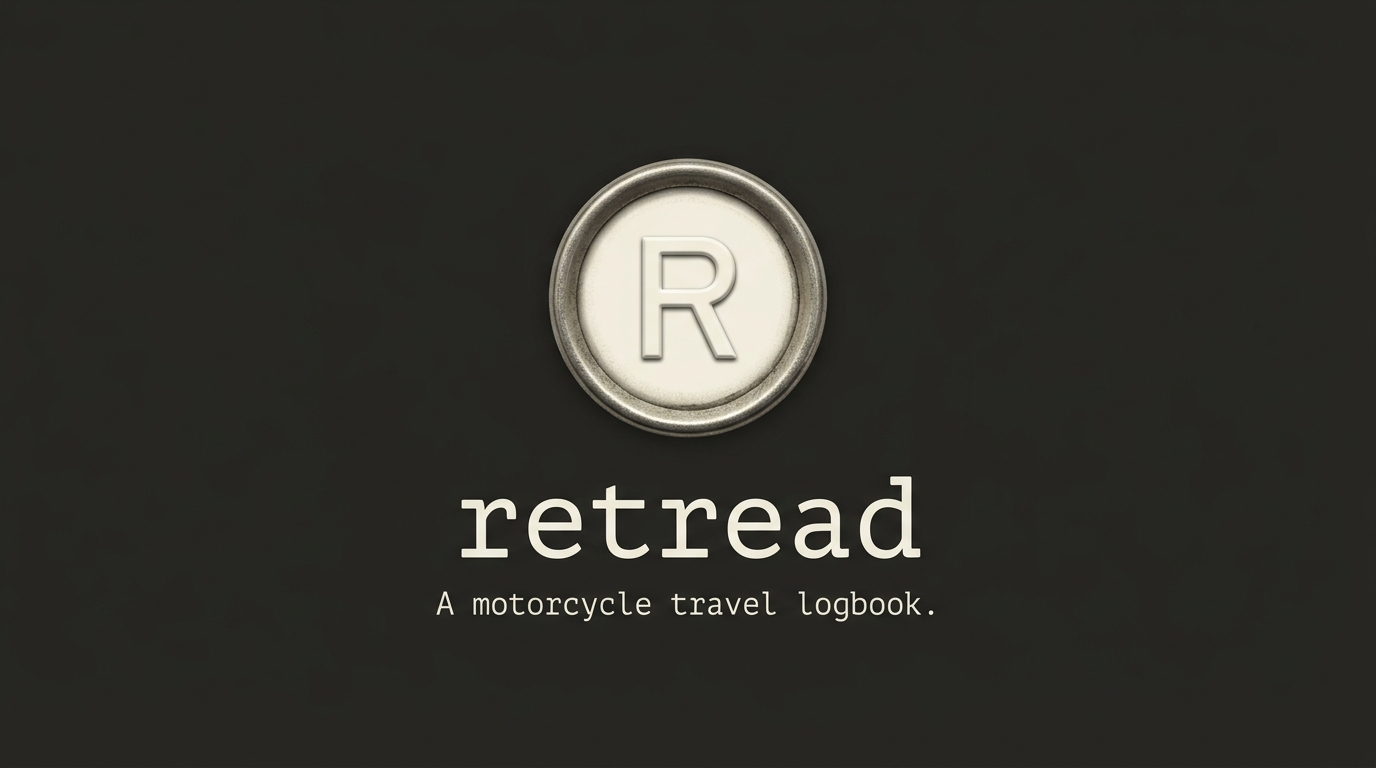
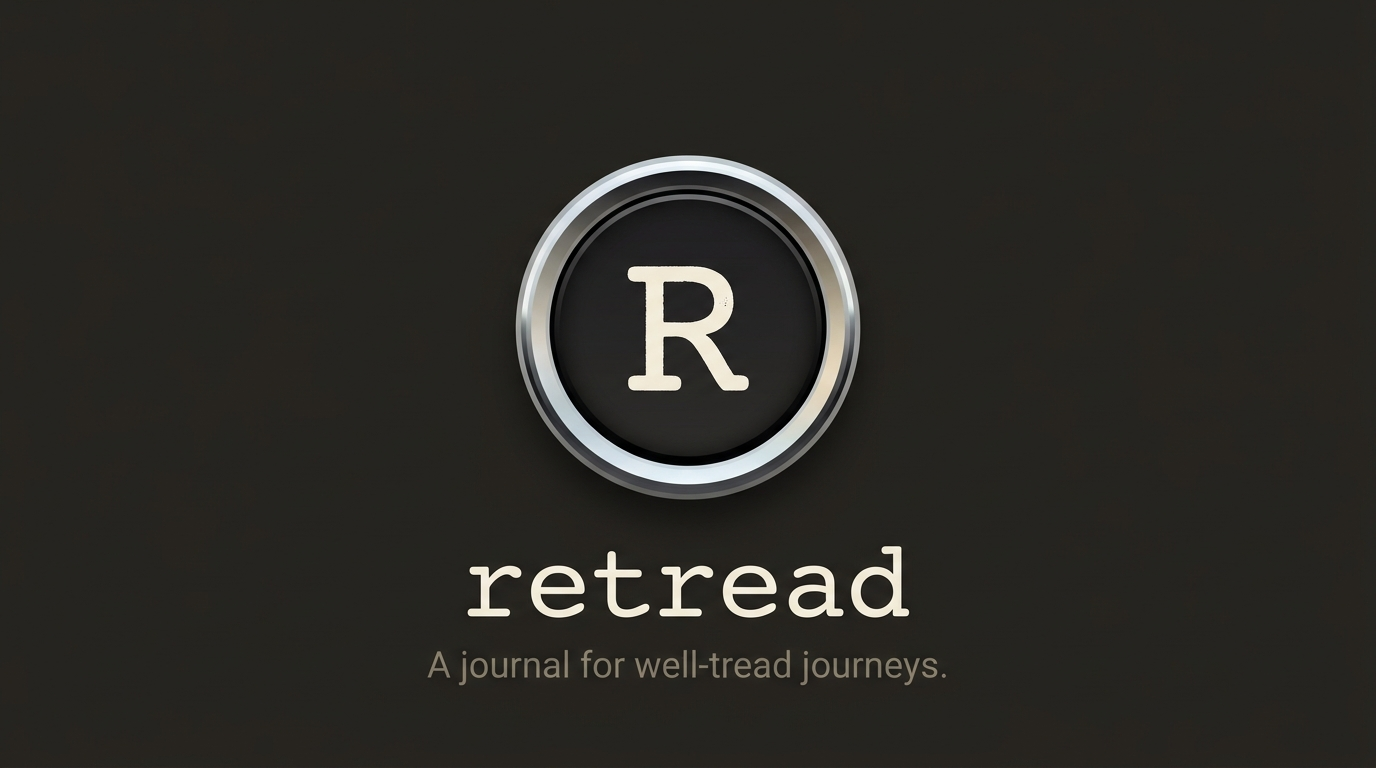
docs: fix README hero image and tagline to match app branding

Changed region(s): [[0.3125, 0.1875, 0.6875, 0.8125], [0.3125, 0.8438, 0.6875, 0.9062]]

diff --git a/README.md b/README.md
@@ -3,8 +3,8 @@
 </p>
 
 <p align="center">
-  <strong>A private, offline-first motorcycle travel logbook.</strong><br/>
-  <em>Field notes, not dashboards.</em>
+  <strong>A journal for well-tread journeys.</strong><br/>
+  <em>Private. Offline. Yours.</em>
 </p>
 
 <p align="center">
@@ -18,7 +18,7 @@
 
 ## What is Retread?
 
-Retread is a Progressive Web App for logging motorcycle trips. Think of it as a digital travel journal — you log daily entries with notes, photos, odometer readings, and GPS pins, and Retread stitches them into ride timelines with route maps.
+Retread is a Progressive Web App for journaling motorcycle trips. You log daily entries with notes, photos, odometer readings, and GPS pins — Retread stitches them into ride timelines with hand-drawn route maps.
 
 Everything stays on your device. No accounts. No cloud. No tracking. Just your rides, stored in your browser's IndexedDB.
 
